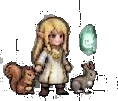
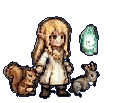
夥伴角色強化（3/12）：馴獸師
- 像素修圖：清掉原圖棋盤格留下的灰色細線殘渣；第 5 階段背後混了棋盤格的紫色星空整片挖掉
  （pixel_polish 新增 drop_debris、drop_aura，可指定只在某些範圍內挖，以及個別階段的設定）
- 特效：森林綠光暈、環繞飄葉（第 2 階段起），人和野獸站在地上不浮空
- 專屬背景：清晨的森林空地，晨光、松樹林、遠山、樹樁，葉子飄落、鳥飛過；前景草叢
- 部位動作：人只動頭和上半身呼吸（腳不動）；野豬、熊、狼的頭會點頭、點擊時低吼；
  松鼠、狼尾巴會搖；第 1 階段水晶漂浮、第 3 階段黑豹背上的火焰跳動
- sw.js 快取版本 v34

Claude-Session: https://claude.ai/code/session_016wQJDqNmeMZi3CzSXZ7hYD

diff --git a/web/style.css b/web/style.css
@@ -796,6 +796,8 @@ ol.steps { margin: 0; padding-left: 1.4em; font-size: .9375rem; line-height: 1.7
   .pet-orbit.fast i { animation-duration: 6.5s; animation-delay: calc(-6.5s * var(--k) / var(--n)); }
   .pet-orbit i b { animation: flicker .5s steps(2) infinite; }
   .pet-orbit svg.orb-bat { animation: flap .32s steps(2) infinite; }
+  .pet-orbit svg.orb-leaf { animation: leaf-flip 1.6s steps(4) infinite; }
+  @keyframes leaf-flip { 25% { scale: .5 1; } 50% { scale: -1 1; } 75% { scale: -.5 1; } }
   @keyframes flap { 50% { transform: scaleY(.55); } }
   @keyframes orbit-xy { 0.0% { translate: 112px 0px; z-index: 3; scale: 1.00; opacity: 1.00; } 8.33% { translate: 97px 20px; z-index: 3; scale: 1.11; opacity: 1.00; } 16.67% { translate: 56px 35px; z-index: 3; scale: 1.19; opacity: 1.00; } 25.0% { translate: 0px 40px; z-index: 3; scale: 1.22; opacity: 1.00; } 33.33% { translate: -56px 35px; z-index: 3; scale: 1.19; opacity: 1.00; } 41.67% { translate: -97px 20px; z-index: 3; scale: 1.11; opacity: 1.00; } 50.0% { translate: -112px 0px; z-index: 3; scale: 1.00; opacity: 1.00; } 58.33% { translate: -97px -20px; z-index: 0; scale: 0.89; opacity: 0.81; } 66.67% { translate: -56px -35px; z-index: 0; scale: 0.81; opacity: 0.67; } 75.0% { translate: -0px -40px; z-index: 0; scale: 0.78; opacity: 0.62; } 83.33% { translate: 56px -35px; z-index: 0; scale: 0.81; opacity: 0.67; } 91.67% { translate: 97px -20px; z-index: 0; scale: 0.89; opacity: 0.81; } 100.0% { translate: 112px -0px; z-index: 0; scale: 1.00; opacity: 1.00; } }
   .evo-burst::before { animation: aura-breathe 1.6s ease-in-out 3; }
@@ -851,6 +853,11 @@ ol.steps { margin: 0; padding-left: 1.4em; font-size: .9375rem; line-height: 1.7
 .scene-art { position: absolute; inset: 0; width: 100%; height: 100%; display: block; }
 .stage.has-scene .pet-shadow { background: rgba(0, 0, 0, .45); }
 .scene .petal { position: absolute; top: -8px; left: calc(8% + var(--i) * 13%); width: 6px; height: 4px; background: #FFB3D6; box-shadow: 2px 2px 0 #FF86BC; opacity: 0; }
+.scene .petal.leaf, .scene-front .petal.leaf { background: #8CC152; box-shadow: 2px 2px 0 #5E922E; }
+.scene .petal.leaf:nth-child(odd) { background: #E0A64A; box-shadow: 2px 2px 0 #B07428; }
+.scene .bird { position: absolute; top: calc(12% + var(--i) * 9%); left: -10%; width: 7px; height: 3px;
+  background: linear-gradient(#2E3B36, #2E3B36) 0 0 / 3px 1px no-repeat, linear-gradient(#2E3B36, #2E3B36) 4px 0 / 3px 1px no-repeat,
+  linear-gradient(#2E3B36, #2E3B36) 2px 1px / 3px 1px no-repeat; }
 .scene .star { position: absolute; width: 3px; height: 3px; background: #FFF4D6; box-shadow: 0 0 4px #FFF4D6; }
 .scene .mist { position: absolute; left: -40%; bottom: 14%; width: 180%; height: 22px; opacity: .55;
   background: repeating-linear-gradient(90deg, rgba(190, 130, 230, .0) 0 18px, rgba(190, 130, 230, .35) 18px 60px, rgba(190, 130, 230, 0) 60px 90px); }
@@ -864,6 +871,9 @@ ol.steps { margin: 0; padding-left: 1.4em; font-size: .9375rem; line-height: 1.7
     50% { transform: translate(-22px, 120px) rotate(180deg); } 90% { opacity: 1; } 100% { opacity: 0; transform: translate(10px, 250px) rotate(360deg); } }
   @keyframes star-blink { 50% { opacity: .25; } }
   @keyframes mist-drift { to { transform: translateX(90px); } }
+  .scene .bird { animation: bird-fly calc(11s + var(--i) * 4s) linear calc(var(--i) * -6s) infinite, bird-flap .5s steps(2) infinite; }
+  @keyframes bird-fly { 0% { left: -10%; } 100% { left: 110%; transform: translateY(-14px); } }
+  @keyframes bird-flap { 50% { background-position: 0 1px, 4px 1px, 2px 0; } }
 }
 
 /* ── 角色融入場景：會流動的切片、場景光、前景 ── */
@@ -879,6 +889,9 @@ ol.steps { margin: 0; padding-left: 1.4em; font-size: .9375rem; line-height: 1.7
   filter: drop-shadow(-2px 0 0 rgba(255, 240, 214, .55)) drop-shadow(0 0 9px rgba(255, 150, 180, .35)) sepia(.06) saturate(1.04); }
 .stage[data-scene="succubus"] .pet img, .stage[data-scene="succubus"] .pet .wavy {
   filter: brightness(.9) drop-shadow(2px 0 0 rgba(225, 60, 95, .7)) drop-shadow(0 0 10px rgba(130, 60, 210, .4)); }
+.stage[data-scene="beast_tamer"] .pet img, .stage[data-scene="beast_tamer"] .pet .wavy {
+  filter: drop-shadow(-2px 0 0 rgba(255, 238, 186, .6)) drop-shadow(0 0 8px rgba(150, 215, 110, .3)) saturate(1.05); }
+.stage[data-scene="beast_tamer"] .pet-shadow { background: rgba(25, 45, 20, .55); }
 .stage[data-scene="fox_spirit"] .pet-shadow { background: rgba(30, 40, 30, .55); }
 .stage[data-scene="succubus"] .pet-shadow { background: rgba(5, 0, 10, .6); box-shadow: 0 0 14px 4px rgba(150, 70, 230, .25); }
 @media (prefers-reduced-motion: no-preference) {
@@ -897,6 +910,19 @@ ol.steps { margin: 0; padding-left: 1.4em; font-size: .9375rem; line-height: 1.7
   .rig .rp-tilt { animation: idle-tilt 8s ease-in-out infinite, head-ride 4s ease-in-out infinite; }
   /* 上半身呼吸：以腰為軸，吸氣時肩膀、胸口一起微微上抬、身體稍微變寬；頭跟著起伏。腳在身體層，不動 */
   .rig .rp-breath { animation: torso-breath 4s ease-in-out infinite; }
+  /* 動物：頭慢慢點一下、點擊時低吼抖一下；水晶漂浮；火焰跳動 */
+  .rig .rp-nod { animation: idle-nod 4s ease-in-out infinite; }
+  .rig .rp-bob { animation: idle-bob 3s steps(6, jump-none) infinite alternate; }
+  .rig .rp-flicker { animation: idle-flicker .9s steps(2) infinite; }
+  .pet.react .rig .rp-nod { animation: growl .9s ease-in-out 1; }
+  .pet.react .rig .rp-bob { animation: bob-pop .8s ease-out 1; }
+  .pet.react .rig .rp-flicker { animation: flare .8s steps(4) 1; }
+  @keyframes idle-nod { 0%, 100% { rotate: 0deg; } 50% { rotate: 3deg; } }
+  @keyframes growl { 0%, 100% { rotate: 0deg; translate: 0 0; } 20% { rotate: -6deg; } 35% { translate: 1px 0; } 45% { translate: -1px 0; } 55% { translate: 1px 0; } 70% { rotate: -2deg; translate: 0 0; } }
+  @keyframes idle-bob { from { translate: 0 0; } to { translate: 0 -3px; } }
+  @keyframes bob-pop { 0% { translate: 0 0; scale: 1; } 40% { translate: 0 -9px; scale: 1.12; } 100% { translate: 0 0; scale: 1; } }
+  @keyframes idle-flicker { 50% { scale: 1.02 1.06; } }
+  @keyframes flare { 0%, 100% { scale: 1; } 40% { scale: 1.08 1.2; } }
   .pet.react .rig .rp-breath { animation: shrug .9s ease-in-out 1; }
   .pet.react .rig .rp-flapL { animation: flapL .95s ease-in-out 1; }
   .pet.react .rig .rp-flapR { animation: flapR .95s ease-in-out 1; }

diff --git a/web/js/core.js b/web/js/core.js
@@ -174,10 +174,13 @@ const PET_FX = {
   // float：從第幾階段開始浮在空中（不再原地跳）；sway：尾巴、披風微微擺動
   fox_spirit: { from: 2, aura: "255,105,190", orb: "flame", colors: ["#C2369E", "#FF7AD0", "#FFE6F7"], spark: "#FFB8E6", float: 3, sway: 1 },
   succubus: { from: 2, aura: "150,70,230", orb: "bat", colors: ["#1E0B2E", "#6B35B8", "#FF4D7E"], spark: "#C79BFF", float: 2, sway: 2 },
+  // 馴獸師：森林的綠光，周圍繞著飄葉；人和野獸站在地上（不浮空）
+  beast_tamer: { from: 2, aura: "140,215,100", orb: "leaf", colors: ["#28501C", "#68AE36", "#D2F59A"], spark: "#CFF59A", sway: 2 },
 };
 const ORB_GRID = {
   flame: ["...1...", "..121..", "..121..", ".12221.", ".12321.", "1223321", "1233321", ".12321.", "..111.."],
   bat: ["1.......1", "11.....11", "111.1.111", "111222111", ".1232321.", "..12221..", "...1.1..."],
+  leaf: ["....111", "...1221", "..12321", ".123221", "1232211", "122211.", "1111...", "1......"],
 };
 
 // 像素火焰（7×9 格），用 SVG 的小方塊畫，放大也是銳利的像素
@@ -256,6 +259,33 @@ const PET_SCENE = {
       .map(([x, y], i) => `<i class="star" style="left:${(x / 160) * 100}%;top:${(y / 80) * 100}%;--i:${i}"></i>`).join("");
     return `<svg class="scene-art" viewBox="0 0 160 80" preserveAspectRatio="xMidYMax slice" shape-rendering="crispEdges">${s}</svg>${stars}<i class="mist"></i><i class="mist m2"></i>`;
   },
+  // 馴獸師：清晨的森林空地，晨光從左邊照進來，松樹林、遠山、樹樁，葉子飄落、鳥飛過
+  beast_tamer: () => {
+    let s = bands(0, ["#8FC6D6", "#9CCDD6", "#AAD3D3", "#B8D8CE", "#C8DCC4", "#D8DFB8", "#E6E0AC", "#F0DF9E", "#F6DA92", "#F8D486"], 5);
+    s += pxCircle(24, 22, 9, "#FFF1C4") + pxCircle(24, 22, 7, "#FFF8DE");
+    // 晨光光束（左上斜下來）
+    for (let i = 0; i < 5; i++) s += `<polygon points="${10 + i * 14},0 ${18 + i * 14},0 ${52 + i * 16},60 ${44 + i * 16},60" fill="#FFF6D8" opacity=".14"/>`;
+    // 遠山
+    for (let x = 0; x < 160; x += 2) { const h = 8 + Math.round(5 * Math.sin(x / 15 + 1) + 3 * Math.sin(x / 6.1)); s += PX(x, 44 - h, 2, h, "#7FA8A0"); }
+    // 松樹：一層一層疊成三角形
+    const pine = (x, base, h, c, c2) => {
+      let t = PX(x - 1, base - 3, 2, 3, "#4A3524");
+      for (let y = 0; y < h; y++) { const w = 1 + Math.floor((y % Math.ceil(h / 3)) * 0.9 + y / 4); t += PX(x - w, base - 3 - h + y, w * 2, 1, y % 3 ? c : c2); }
+      return t;
+    };
+    [[6, 48, 22], [16, 46, 16], [138, 48, 24], [150, 47, 18], [128, 46, 14], [36, 45, 12], [112, 45, 11]].forEach(([x, b, h]) => (s += pine(x, b, h, "#3E6B48", "#4E8055")));
+    [[0, 52, 28], [156, 52, 30]].forEach(([x, b, h]) => (s += pine(x, b, h, "#2C4F36", "#355D3F")));
+    // 地面：草地、泥土小路
+    s += PX(0, 46, 160, 34, "#5C8F3E") + PX(0, 46, 160, 2, "#76AA4C") + PX(0, 60, 160, 20, "#4F7E35");
+    for (let i = 0; i < 7; i++) s += PX(70 - i * 3, 50 + i * 4, 20 + i * 6, 3, i % 2 ? "#9C7B52" : "#B08D60");
+    [[12, 52, 5], [40, 56, 4], [118, 54, 6], [146, 60, 4], [100, 66, 5]].forEach(([x, y, w]) => (s += PX(x, y, w, 2, "#86BB58")));
+    // 樹樁和石頭
+    s += PX(126, 50, 12, 6, "#6E4A2C") + PX(126, 49, 12, 2, "#C9A06A") + PX(129, 49, 6, 1, "#A57E4E") + PX(124, 55, 16, 2, "#4E331F");
+    s += PX(22, 54, 8, 4, "#8E9290") + PX(23, 53, 6, 1, "#ADB1AE") + PX(20, 57, 12, 1, "#5E6260");
+    const leaves = Array.from({ length: 6 }, (_, i) => `<i class="petal leaf" style="--i:${i}"></i>`).join("");
+    const birds = [0, 1].map((i) => `<i class="bird" style="--i:${i}"></i>`).join("");
+    return `<svg class="scene-art" viewBox="0 0 160 80" preserveAspectRatio="xMidYMax slice" shape-rendering="crispEdges">${s}</svg>${leaves}${birds}`;
+  },
 };
 function petScene(id) {
   const f = PET_SCENE[id];
@@ -273,12 +303,21 @@ const PET_FRONT = {
       `<i class="petal front" style="--i:2"></i><i class="petal front" style="--i:5"></i>`;
   },
   succubus: () => `<i class="mist front"></i><i class="mist front m2"></i>`,
+  beast_tamer: () => {
+    let s = "";
+    for (let x = 0; x < 160; x += 2) {
+      const h = 3 + ((x * 11) % 6);
+      s += PX(x, 10 - h, 1, h, x % 4 ? "#3F6E2C" : "#4F8A35") + PX(x + 1, 10 - h + 2, 1, h - 2, "#67A644");
+    }
+    return `<svg class="front-art" viewBox="0 0 160 10" preserveAspectRatio="none" shape-rendering="crispEdges">${s}</svg>` +
+      `<i class="petal leaf front" style="--i:1"></i><i class="petal leaf front" style="--i:4"></i>`;
+  },
 };
 const petFront = (id) => (PET_FRONT[id] ? `<span class="scene-front" aria-hidden="true">${PET_FRONT[id]()}</span>` : "");
 
 // 夥伴圖：有拆部位的（rigs.json）用分層組回角色，點擊時頭、翅膀、尾巴、下襬各自動；沒有的用整張圖
 // 圖層順序：翅膀、尾巴、魔力圈在身體後面；上半身、頭在前面。腳留在身體層，不另外動
-const RIG_Z = { wingL: 0, wingR: 0, tail: 0, tailL: 0, tailR: 0, ringL: 0, ringR: 0, torso: 2, head: 3 };
+const RIG_Z = { wingL: 0, wingR: 0, tail: 0, tailL: 0, tailR: 0, ringL: 0, ringR: 0, torso: 2, head: 3, beast: 2, mane: 2, crystal: 3 };
 function petSprite(id, stage, boxH) {
   const rig = S.rigs?.[id]?.[stage + 1], sp = species(id);
   if (!rig || !sp) return charImg(id, stage, boxH);

diff --git a/web/sw.js b/web/sw.js
@@ -1,5 +1,5 @@
 // 只快取 App 外殼，讓主畫面圖示在網路不穩時也打得開；API 一律走網路。
-const CACHE = "ic8-shell-v33";
+const CACHE = "ic8-shell-v34";
 const SHELL = ["/", "/style.css", "/js/core.js", "/js/summary.js", "/js/activity.js", "/js/analysis.js",
   "/js/me.js", "/js/brief.js", "/js/apple.js", "/js/strength.js", "/js/learn.js", "/js/runner.js", "/js/share.js", "/js/main.js", "/manifest.webmanifest", "/characters/manifest.json", "/icons/apple-touch-icon.png"];
 

diff --git a/tools/pixel_polish.py b/tools/pixel_polish.py
@@ -37,6 +37,39 @@ def drop_grey_holes(a, mask, min_size=10):
     return mask
 
 
+def drop_debris(a, mask, passes=3):
+    """原圖棋盤格留下的 1–2px 灰色細線：只挖「又細又灰」的像素，粗的灰色部位（盔甲、狼毛）不動。"""
+    rgb = a[..., :3].astype(int)
+    spread = rgb.max(-1) - rgb.min(-1)
+    val = rgb.max(-1)
+    grey = (spread < 30) & (val > 55) & (val < 235)
+    for _ in range(passes):
+        thick = ndimage.binary_opening(mask, np.ones((3, 3)))
+        kill = mask & ~thick & grey
+        if not kill.any():
+            break
+        mask = mask & ~kill
+    return mask
+
+
+def drop_aura(a, mask, hue=(190, 300), min_sat=12, grow=3, boxes=None):
+    """挖掉整片帶棋盤格的光芒（例如紫色星空）：先找這段色相，再把夾在裡面、旁邊的灰格一起挖掉。光芒改用程式畫。"""
+    hsv = np.array(Image.fromarray(a[..., :3]).convert("HSV")).astype(int)
+    h = hsv[..., 0] * 360 // 256
+    rgb = a[..., :3].astype(int)
+    spread = rgb.max(-1) - rgb.min(-1)
+    val = rgb.max(-1)
+    aura = mask & (h >= hue[0]) & (h < hue[1]) & (hsv[..., 1] >= min_sat) & (val > 60)
+    zone = ndimage.binary_dilation(aura, np.ones((3, 3)), iterations=grow)
+    grey = mask & zone & (spread < 34) & (val > 90)
+    if boxes:                                   # 只在光芒所在的範圍內挖，角色本身（狼臉、法杖）不碰
+        keep = np.zeros_like(mask)
+        for x0, y0, x1, y1 in boxes:
+            keep[y0:y1, x0:x1] = True
+        aura &= keep; grey &= keep
+    return mask & ~aura & ~grey
+
+
 def shift_hue(img, lo, hi, by, darken=1.0, min_sat=40):
     """把某段色相（0–360 度）整段轉到別的顏色，例如粉紅轉成紫紅；金髮、膚色不在範圍內就不動。"""
     hsv = np.array(img.convert("HSV")).astype(int)
@@ -48,18 +81,22 @@ def shift_hue(img, lo, hi, by, darken=1.0, min_sat=40):
     return Image.fromarray(hsv.astype(np.uint8), "HSV").convert("RGB")
 
 
-def polish(path, colors=96, sat=1.12, contrast=1.06, holes=False, hue=None):
+def polish(path, colors=96, sat=1.12, contrast=1.06, holes=False, hue=None, debris=False, aura=None, min_bit=8):
     im = Image.open(path).convert("RGBA")
     a = np.array(im)
     mask = a[..., 3] > 0
+    if aura:
+        mask = drop_aura(a, mask, **aura)
     mask = peel_grey(a, mask)
     if holes:
         mask = drop_grey_holes(a, mask)
+    if debris:
+        mask = drop_debris(a, mask)
     lab, n = ndimage.label(mask)
     if n:
         sizes = ndimage.sum(mask, lab, range(1, n + 1))
         for i, s in enumerate(sizes, 1):
-            if s < 8:
+            if s < min_bit:
                 mask[lab == i] = False
         lab, n = ndimage.label(mask)
     sizes = ndimage.sum(mask, lab, range(1, n + 1)) if n else []
@@ -92,6 +129,9 @@ TUNE = {
     "fox_spirit": {"sat": 1.25, "contrast": 1.08},   # 和服的紅、紫、金更華麗
     # 魅魔：跟九尾狐的粉紅分開 → 粉紅轉成深紫紅、整體暗一點；翅膀和魔力圈裡夾著背景棋盤格
     "succubus": {"sat": 1.2, "contrast": 1.12, "holes": True, "hue": [(296, 8, -30, 0.84)]},
+    # 馴獸師：原圖滿是棋盤格細線殘渣；第 5 階段背後的紫色星空混了棋盤格，整片挖掉改用程式畫光暈
+    "beast_tamer": {"sat": 1.15, "contrast": 1.08, "debris": True, "min_bit": 24,
+                    "stages": {5: {"aura": {"hue": (150, 300), "boxes": [(0, 45, 51, 122), (51, 34, 57, 94), (118, 12, 200, 62), (122, 62, 192, 74), (88, 14, 118, 30)]}}}},
 }
 
 
@@ -111,7 +151,9 @@ if __name__ == "__main__":
             src_png = orig / sp / f"{i}.png"
             if not src_png.exists():                       # 第一次：先把原圖收好，之後都從原圖重做
                 shutil.copy2(chars / sp / f"{i}.png", src_png)
-            out = polish(src_png, **TUNE.get(sp, {}))
+            tune = dict(TUNE.get(sp, {}))
+            tune.update(tune.pop("stages", {}).get(i, {}))   # 個別階段的設定
+            out = polish(src_png, **tune)
             out.save(chars / sp / f"{i}.png", optimize=True)
             st["w"], st["h"] = out.width, out.height
         print(f"{sp}: 完成 {len(entry['stages'])} 張")

diff --git a/tools/rig_split.py b/tools/rig_split.py
@@ -23,7 +23,7 @@ ROOT = Path(__file__).resolve().parent.parent
 CHARS = ROOT / "web" / "characters"
 
 # 部位：(名稱, [x0, y0, x1, y1], [關節 x, y], 動作)
-# 動作：tilt 歪頭、flapL/flapR 拍翅、fanL/fanR 尾巴（或魔力圈）往外展開、wag 搖尾巴、breath 上半身呼吸（腳不動）
+# 動作：tilt 歪頭、flapL/flapR 拍翅、fanL/fanR 尾巴（或魔力圈）往外展開、wag 搖尾巴、breath 上半身呼吸（腳不動）、nod 動物點頭、bob 漂浮、flicker 火焰跳動
 # 前面的部位優先：同一個像素落在兩個框裡，算給前面那個
 RIGS: dict[str, dict[int, list]] = {
     "succubus": {
@@ -36,6 +36,19 @@ RIGS: dict[str, dict[int, list]] = {
         5: [("head", [52, 22, 90, 60], [70, 60], "tilt"), ("ringL", [0, 8, 46, 100], [46, 50], "fanL"),
             ("ringR", [94, 8, 130, 100], [94, 50], "fanR"), ("torso", [46, 58, 94, 100], [70, 100], "breath")],
     },
+    # 馴獸師：人只動頭和上半身（腳不動）；動物的頭點頭、低吼，尾巴搖；水晶漂浮、火焰跳動
+    "beast_tamer": {
+        1: [("head", [36, 15, 71, 48], [53, 48], "tilt"), ("crystal", [78, 23, 100, 57], [89, 40], "bob"),
+            ("tail", [3, 61, 20, 92], [20, 86], "wag"), ("beast", [80, 61, 100, 80], [86, 80], "nod"),
+            ("torso", [33, 48, 72, 84], [53, 84], "breath")],
+        2: [("head", [54, 16, 84, 44], [68, 44], "tilt"), ("beast", [118, 52, 152, 96], [118, 78], "nod"),
+            ("torso", [46, 44, 86, 74], [66, 74], "breath")],
+        3: [("head", [58, 37, 90, 68], [74, 68], "tilt"), ("mane", [98, 53, 158, 92], [125, 92], "flicker"),
+            ("torso", [40, 68, 95, 108], [68, 108], "breath")],
+        4: [("head", [84, 20, 120, 57], [102, 56], "tilt"), ("beast", [150, 75, 198, 132], [152, 100], "nod"),
+            ("torso", [56, 57, 125, 110], [92, 110], "breath")],
+        5: [("head", [82, 26, 122, 62], [102, 62], "tilt"), ("beast", [165, 85, 203, 132], [170, 108], "nod"),
+            ("tail", [20, 102, 42, 132], [42, 126], "wag"), ("torso", [85, 62, 132, 105], [106, 105], "breath")]},
     "fox_spirit": {
         1: [("head", [36, 0, 77, 42], [52, 40], "tilt"), ("tail", [4, 18, 36, 66], [36, 52], "wag")],
         2: [("head", [48, 8, 82, 46], [64, 46], "tilt"), ("tailL", [6, 38, 50, 112], [50, 70], "fanL"), ("torso", [46, 46, 85, 95], [64, 95], "breath")],
